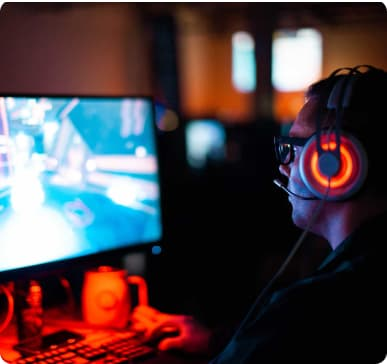
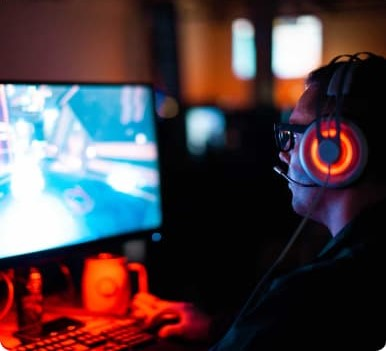
vse

diff --git a/src/partials/blog/blog.html b/src/partials/blog/blog.html
@@ -149,7 +149,7 @@
                   media="(max-width: 767px)"
                 />
                 <img
-                  src="/src/images/blog/1.jpg"
+                  src="/src/images/blog/3.jpg"
                   alt="геймерські навушники"
                   width="320"
                 />
